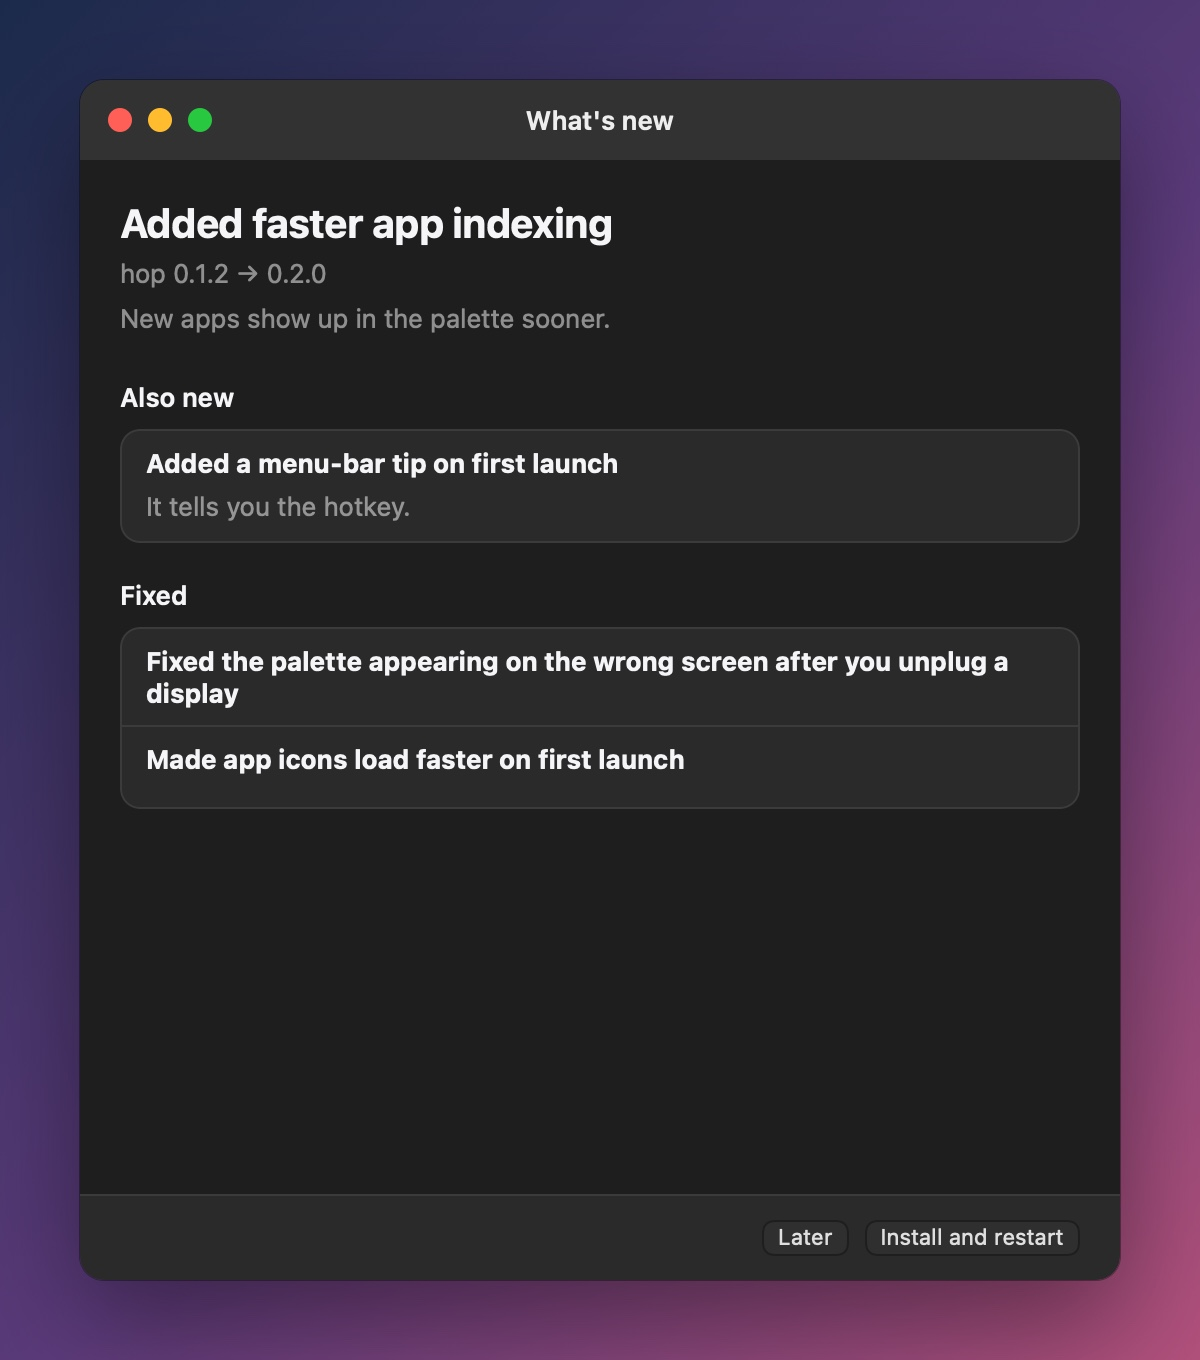
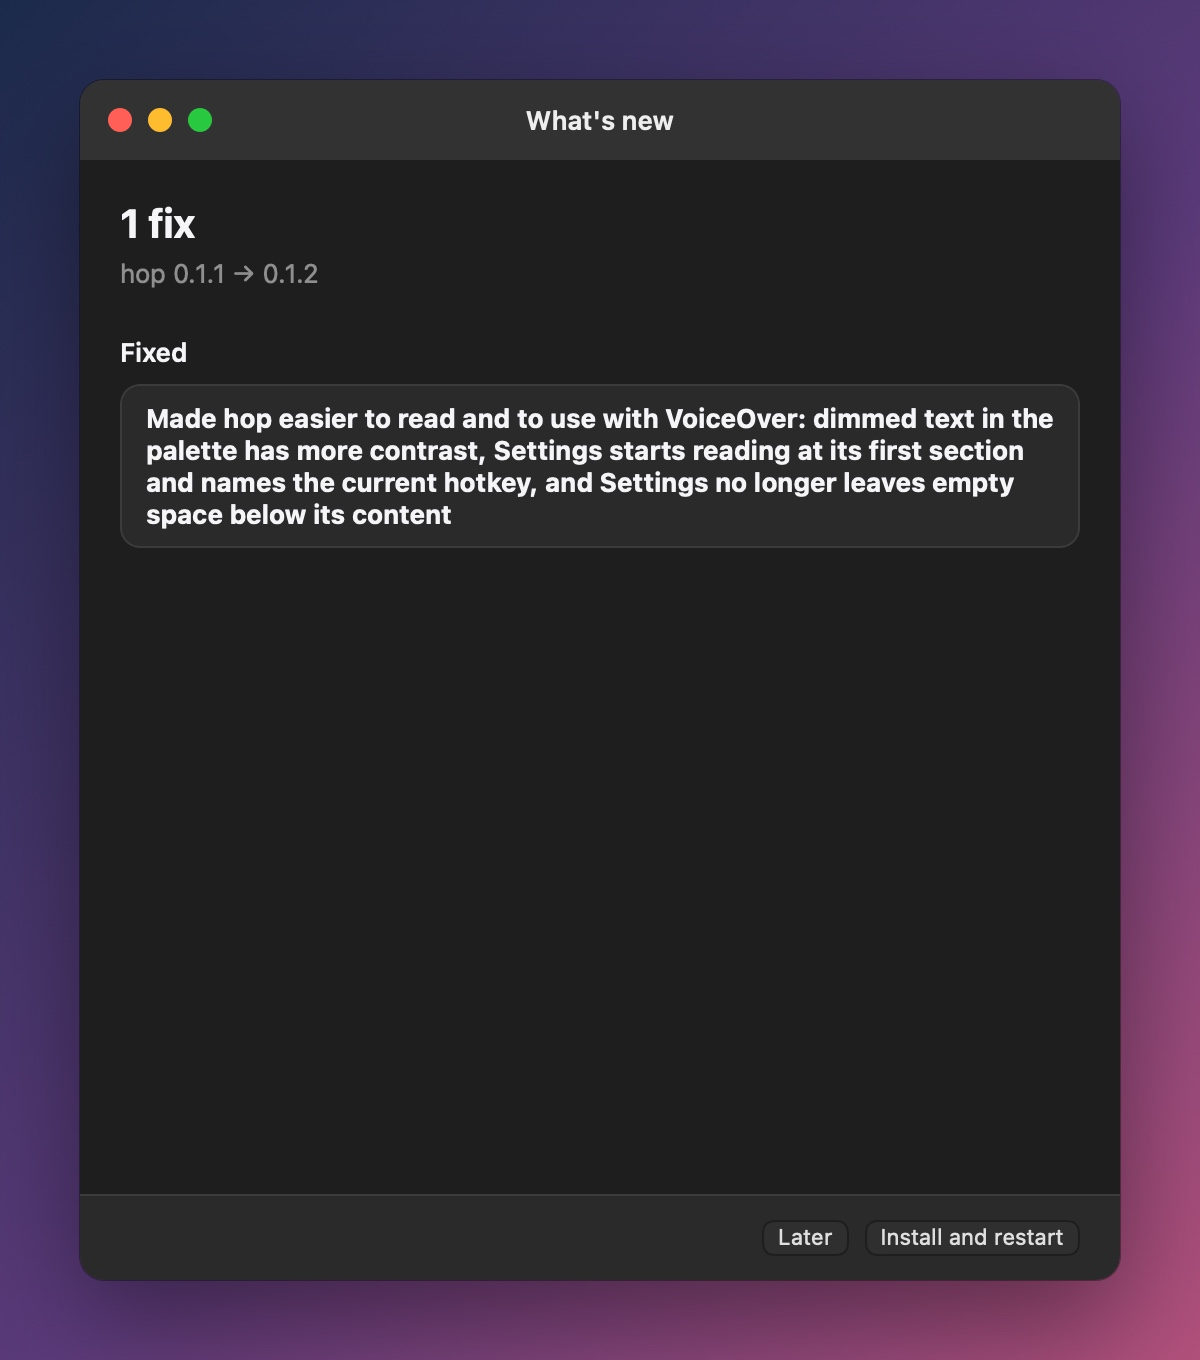
docs: show the real 0.1.2 update in the What's new screenshot
Claude-Session: https://claude.ai/code/session_012ZCdCJD3coGwUjh3bTwSi8

Changed region(s): [[0.0925, 0.1544, 0.8633, 0.4015], [0.0925, 0.4324, 0.8325, 0.5868]]

diff --git a/site/scripts/screens/mock.js b/site/scripts/screens/mock.js
@@ -25,7 +25,8 @@
     settings: { hotkey: 'Alt+Space', extraFolders: ['/Users/me/Tools'], ignoredApps: ['/System/Applications/Stocks.app'], theme: 'system', paletteStyle: 'compact', dailyUpdateCheck: true },
     hotkeyError: null, login: true, loginRefusal: null, version: '0.1.2', update: null,
   };
-  const notes = '### Minor Changes\n\n- Added faster app indexing. New apps show up in the palette sooner.\n- Added a menu-bar tip on first launch. It tells you the hotkey.\n\n### Patch Changes\n\n- Fixed the palette appearing on the wrong screen after you unplug a display.\n- Made app icons load faster on first launch.\n\n---\n';
+  // the real 0.1.2 entry of CHANGELOG.md, as release-notes.mjs writes it (no commit hash)
+  const notes = '### Patch Changes\n\n- Made hop easier to read and to use with VoiceOver: dimmed text in the palette has more contrast, Settings starts reading at its first section and names the current hotkey, and Settings no longer leaves empty space below its content.\n\n---\n';
   let cbId = 0;
   const cbs = {};
   window.__TAURI_EVENT_PLUGIN_INTERNALS__ = { unregisterListener() {} };
@@ -39,7 +40,7 @@
         case 'list_apps': return { generation: 1, apps: APPS };
         case 'frecency': return frecency;
         case 'get_settings': case 'set_settings': return view;
-        case 'whatsnew_info': return { update: { version: '0.2.0', current_version: '0.1.2', notes }, phase: { kind: 'idle' } };
+        case 'whatsnew_info': return { update: { version: '0.1.2', current_version: '0.1.1', notes }, phase: { kind: 'idle' } };
         default: return null;
       }
     },
